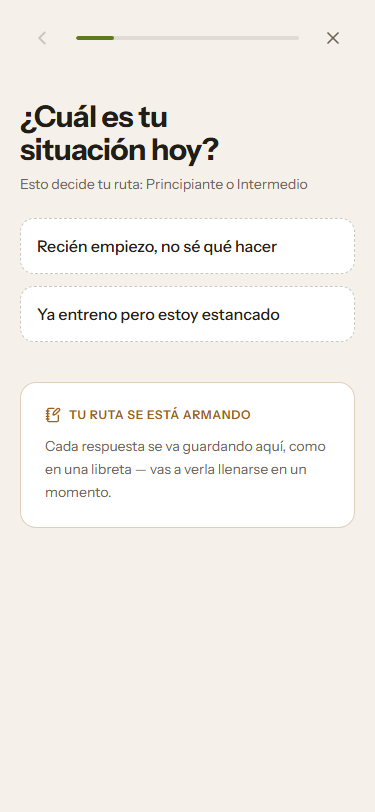
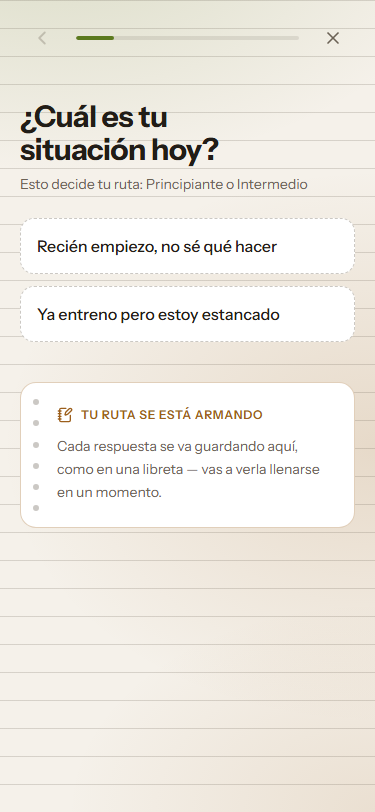
fix: reforzar dispositivo ownable + corregir bug de z-index que ocultaba los fondos
Se agregó una textura de "renglones de cuaderno" (mundo del sujeto de
FICHA-ARTE) y una espiral de encuadernación, sin tocar la paleta base
(decisión del usuario: reforzar identidad en vez de redecidir colores).

Al verificar se encontró que los fondos de Hero.tsx y del onboarding
usaban z-index negativo sobre elementos absolute, el mismo bug de
stacking-context ya visto en app/app/perfil/page.tsx: un hijo con z
negativo pinta detrás del fondo opaco de su ancestro. Esto dejaba
invisible el video de fondo del Hero (posiblemente desde que se
agregó) y el degradé completo del onboarding en cada ronda de revisión
anterior. Corregido: z-index 0 + contenido real en su propia capa
relative z-10.

Changed region(s): [[0.088, 0.4926, 0.8507, 0.6466], [0.9093, 0.4618, 1.0, 0.6466], [0.9973, 0.9852, 1.0, 1.0]]

diff --git a/app/onboarding/page.tsx b/app/onboarding/page.tsx
@@ -117,15 +117,25 @@ export default function OnboardingPage() {
       {/* Profundidad sutil (DESIGN-CORE): nunca un fill plano, ni en pantallas cortas */}
       <div
         aria-hidden="true"
-        className="pointer-events-none absolute inset-0 -z-10"
+        className="pointer-events-none absolute inset-0 z-0"
         style={{
           background:
+            /* Renglones de cuaderno (mundo del sujeto, FICHA-ARTE) — textura
+               PROPIA (líneas rectas), no el grano feTurbulence del ejemplo
+               vetado "Capítulo" del banco canónico: mismo concepto, device
+               visual distinto. */
+            'repeating-linear-gradient(to bottom, color-mix(in oklab, var(--text-tertiary) 22%, transparent) 0px, color-mix(in oklab, var(--text-tertiary) 22%, transparent) 1px, transparent 1px, transparent 28px), ' +
             'radial-gradient(700px 420px at 15% -10%, color-mix(in oklab, var(--accent) 18%, transparent) 0%, transparent 60%), ' +
             'radial-gradient(620px 460px at 100% 55%, color-mix(in oklab, var(--accent-2) 16%, transparent) 0%, transparent 60%), ' +
             'radial-gradient(560px 380px at 100% 100%, color-mix(in oklab, var(--accent-2) 12%, transparent) 0%, transparent 55%)',
         }}
       />
 
+      {/* Contenido real en su propia capa z-10: un ancestro con fondo opaco
+          puede pintar ENCIMA de un hijo con z-index negativo (patrón ya visto
+          en app/app/perfil/page.tsx) — aquí el fondo de renglones se volvía
+          invisible por lo mismo hasta envolver el contenido así. */}
+      <div className="relative z-10 flex flex-1 flex-col">
       {/* Barra superior: atrás + progreso + salir — SIEMPRE visible (02B regla 3).
           "Salir" existe siempre (no solo cuando Atrás está deshabilitado): control
           y libertad real, sin obligar a devolverse paso a paso para abandonar. */}
@@ -269,6 +279,7 @@ export default function OnboardingPage() {
           )}
         </AnimatePresence>
       </div>
+      </div>
     </div>
   );
 }
@@ -322,12 +333,20 @@ function TarjetaRuta({
   ];
 
   return (
-    <div className="mt-10 rounded-[var(--radius-card)] border border-[color-mix(in_oklab,var(--accent-2)_30%,transparent)] bg-[var(--surface)] p-6">
+    <div className="relative mt-10 overflow-hidden rounded-[var(--radius-card)] border border-[color-mix(in_oklab,var(--accent-2)_30%,transparent)] bg-[var(--surface)] py-6 pr-6 pl-9">
       {/* Borde SÓLIDO (no punteado): los chips no-seleccionados también usan
           borde punteado — con el mismo estilo aquí, la tarjeta se leía como
           "tocable" sin serlo (hallazgo revisor-visual). El ámbar (2ª nota de
           FICHA-ARTE) vive aquí de forma REAL y visible, no solo en un
           degradé de fondo casi imperceptible. */}
+      {/* Espiral de encuadernación (mundo del sujeto: la tarjeta ES una hoja
+          de cuaderno) — dispositivo ownable reforzado, distinto del grano del
+          ejemplo vetado del banco canónico. */}
+      <div aria-hidden="true" className="absolute inset-y-4 left-3 flex flex-col justify-between">
+        {Array.from({ length: 6 }).map((_, i) => (
+          <span key={i} className="size-1.5 rounded-full bg-[color-mix(in_oklab,var(--text-tertiary)_35%,transparent)]" />
+        ))}
+      </div>
       <div className="flex items-center gap-2">
         <NotebookPen size={16} color="var(--accent-2)" aria-hidden="true" />
         <p className="text-xs font-semibold uppercase tracking-[0.06em] text-[var(--accent-2)]">Tu ruta se está armando</p>

diff --git a/components/landing/Hero.tsx b/components/landing/Hero.tsx
@@ -66,7 +66,7 @@ export function Hero({
           Sirve de respaldo SIN video y de base bajo el scrim CON video. */}
       <div
         aria-hidden="true"
-        className="pointer-events-none absolute inset-0 -z-20"
+        className="pointer-events-none absolute inset-0 z-0"
         style={{
           background:
             'radial-gradient(900px 480px at 50% -10%, color-mix(in oklab, var(--accent) 8%, transparent) 0%, transparent 60%), ' +
@@ -77,7 +77,9 @@ export function Hero({
       {backgroundVideoSrc && (
         <>
           {/* Atmósfera, no producto real — silenciosa, decorativa, sin controles.
-              motion-reduce la oculta: sin movimiento, queda solo el degradé de arriba. */}
+              motion-reduce la oculta: sin movimiento, queda solo el degradé de arriba.
+              z-index NO negativo (patrón de app/app/perfil/page.tsx): un hijo con
+              z negativo puede quedar pintado DETRÁS del fondo de un ancestro. */}
           <video
             aria-hidden="true"
             autoPlay
@@ -85,7 +87,7 @@ export function Hero({
             loop
             playsInline
             preload="auto"
-            className="pointer-events-none absolute inset-0 -z-20 size-full object-cover motion-reduce:hidden"
+            className="pointer-events-none absolute inset-0 z-0 size-full object-cover motion-reduce:hidden"
           >
             <source src={backgroundVideoSrc} type="video/mp4" />
           </video>
@@ -94,16 +96,20 @@ export function Hero({
               a la captura del producto, que ya trae su propio fondo opaco. */}
           <div
             aria-hidden="true"
-            className="pointer-events-none absolute inset-0 -z-10"
+            className="pointer-events-none absolute inset-0 z-0"
             style={{
               background:
+                /* Renglones de cuaderno (mundo del sujeto de FICHA-ARTE) — textura
+                   PROPIA, distinta del grano feTurbulence del ejemplo vetado "Capítulo"
+                   del banco canónico: líneas rectas espaciadas, no ruido aleatorio. */
+                'repeating-linear-gradient(to bottom, color-mix(in oklab, var(--text-tertiary) 22%, transparent) 0px, color-mix(in oklab, var(--text-tertiary) 22%, transparent) 1px, transparent 1px, transparent 28px), ' +
                 'linear-gradient(180deg, color-mix(in oklab, var(--bg) 85%, transparent) 0%, color-mix(in oklab, var(--bg) 92%, transparent) 55%, var(--bg) 82%)',
             }}
           />
         </>
       )}
 
-      <div className="mx-auto w-full max-w-6xl px-5">
+      <div className="relative z-10 mx-auto w-full max-w-6xl px-5">
         {/* Header 64px: marca a la izquierda, SOLO "Entrar" terciario a la derecha (19) */}
         <header className="flex h-16 items-center justify-between">
           <Link href="/" className="flex items-center gap-2 text-base font-semibold text-[var(--text-primary)]">

diff --git a/ESTADO.md b/ESTADO.md
@@ -1,6 +1,13 @@
 # ESTADO — GymEvo (nombre tentativo: Método Cero)
 Última actualización: 2026-09-01 | Sesión actual: 7 (en curso)
 
+⏸ CHECKPOINT — Última acción completada (01/09/2026): **Refuerzo del dispositivo ownable (opción "por tiempo": no tocar la paleta base) + HALLAZGO de un bug real que invalidaba las 4 rondas anteriores de revisión de landing/onboarding**.
+- Se agregó una textura de "renglones de cuaderno" (líneas rectas horizontales, PROPIA — distinta del grano feTurbulence del ejemplo vetado "Capítulo" del banco canónico) al fondo del Hero (landing) y del onboarding completo, más una espiral de encuadernación (columna de puntos) en el borde izquierdo de `TarjetaRuta`.
+- **Al verificar en el navegador, las líneas no se veían — y se descubrió por qué**: tanto el fondo de `Hero.tsx` (mesh + video + scrim) como el fondo del onboarding usaban `z-index` NEGATIVO sobre elementos `absolute`, el mismo bug de stacking-context ya encontrado y documentado antes en `app/app/perfil/page.tsx` (un hijo con z negativo pinta DETRÁS del fondo opaco de su ancestro). Esto significa que **el video de fondo del Hero probablemente nunca se vio en NINGÚN render de esta sesión ni de sesiones anteriores** — se había interpretado como "limitación de la herramienta de screenshot para capturar movimiento", pero en realidad la capa entera era invisible. También explica por qué el revisor-visual reportó "fondo plano" en CADA una de las 4 rondas de onboarding de hoy pese a subir la opacidad varias veces: la opacidad nunca importó porque la capa nunca se pintaba.
+- **Corregido en ambos archivos** (`components/landing/Hero.tsx`, `app/onboarding/page.tsx`): todos los fondos pasaron de z negativo a `z-index: 0`, y el contenido real de cada pantalla quedó envuelto en su propia capa `relative z-10` (mismo patrón ya probado). Verificado visualmente en el navegador con un "test de color rojo" (pintar el div de fondo de rojo sólido para confirmar si se veía o no) antes y después del fix — confirmado que antes NO se veía nada (ni rojo) y después SÍ.
+- Se relanzó el revisor-visual (ronda 5, con contexto explícito del hallazgo) para ambas pantallas — es una re-evaluación legítima porque el render real cambió de forma sustancial, no una repetición de rondas ya agotadas. Resultado pendiente de notificación.
+- Verificado: tsc ✓ · eslint ✓ · build ✓ en `components/landing/Hero.tsx` y `app/onboarding/page.tsx`.
+
 ⏸ CHECKPOINT — Última acción completada (01/09/2026): **Ronda 3 de correcciones landing+onboarding, tras los resultados de la ronda 2 del revisor-visual (onboarding 34/40·12/20, landing 33/40·14/20·19/20 copy — ambas siguen NO LISTA)**. Defectos reales corregidos:
 - **Onboarding**: el borde punteado de `TarjetaRuta` era igual al de los chips no-seleccionados (parecía tocable sin serlo) → ahora borde SÓLIDO en ámbar; el ámbar ya no vivía en ningún elemento visible (solo un gradiente casi imperceptible) → el ícono `NotebookPen` y el eyebrow "TU RUTA SE ESTÁ ARMANDO" ahora son ámbar sólido; el paso "reconocimiento" tenía un check estático sin la celebración N1 ("trazo verde") de FICHA-ARTE → ahora es un SVG con `pathLength` animado (se dibuja), respeta `prefers-reduced-motion`; FICHA-ARTE.md decía que accent-2 era "N/A por ahora" pero el código ya lo usaba → sincronizado.
 - **Landing**: faltaba la baseline de conteo animado en los precios → se agregó `PrecioAnimado` en `Oferta.tsx` (cuenta 0→N al entrar en vista, `useInView`+`animate`, respeta reduced-motion) para mensual/anual (el total tachado del stack Hormozi se dejó estático a propósito: no tiene sentido narrativo animar un ancla que se descarta visualmente); el titular de Oferta acentuaba también la preposición "de" → recortado a solo la cifra.
